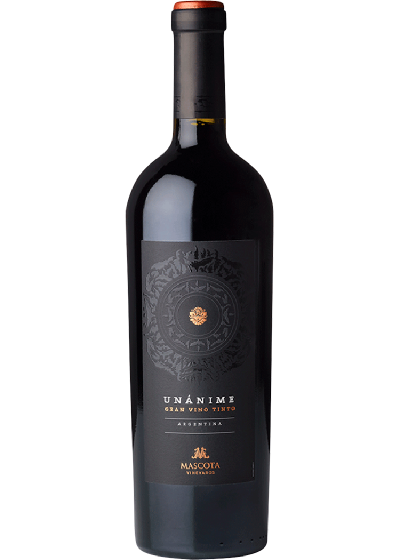
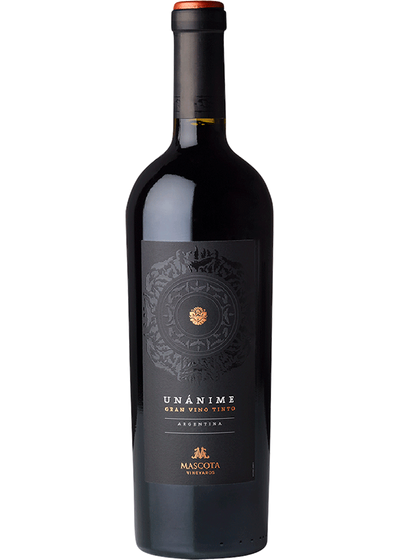
DIG-107347 Second version with height/width support

diff --git a/transform.go b/transform.go
@@ -357,6 +357,71 @@ func makeRectangle(m image.Image, sidePadding int) image.Image {
 	return transparentRectangle
 }
 
+// make image rectangular with 5:7 ratio with specific dimensions
+func makeRectangleWithDimensions(m image.Image, targetWidth, targetHeight int) image.Image {
+	// Calculate the 5:7 ratio canvas dimensions
+	var canvasWidth, canvasHeight int
+
+	if targetWidth > 0 && targetHeight > 0 {
+		// Both dimensions specified, use them directly but maintain 5:7 ratio
+		// Choose the dimension that results in a larger canvas to fit the image
+		canvasFromWidth := targetWidth
+		canvasHeightFromWidth := int(float64(targetWidth) * 7.0 / 5.0)
+
+		canvasFromHeight := targetHeight
+		canvasWidthFromHeight := int(float64(targetHeight) * 5.0 / 7.0)
+
+		if canvasFromWidth >= canvasWidthFromHeight && canvasHeightFromWidth >= targetHeight {
+			canvasWidth = canvasFromWidth
+			canvasHeight = canvasHeightFromWidth
+		} else {
+			canvasWidth = canvasWidthFromHeight
+			canvasHeight = canvasFromHeight
+		}
+	} else if targetWidth > 0 {
+		// Only width specified, calculate height for 5:7 ratio
+		canvasWidth = targetWidth
+		canvasHeight = int(float64(targetWidth) * 7.0 / 5.0)
+	} else if targetHeight > 0 {
+		// Only height specified, calculate width for 5:7 ratio
+		canvasHeight = targetHeight
+		canvasWidth = int(float64(targetHeight) * 5.0 / 7.0)
+	} else {
+		// No dimensions specified, fall back to original behavior
+		return makeRectangle(m, 0)
+	}
+
+	// Scale the image to fit within the canvas while maintaining aspect ratio
+	imgWidth := m.Bounds().Dx()
+	imgHeight := m.Bounds().Dy()
+
+	scaleX := float64(canvasWidth) / float64(imgWidth)
+	scaleY := float64(canvasHeight) / float64(imgHeight)
+
+	// Use the smaller scale to ensure the image fits within the canvas
+	scale := scaleX
+	if scaleY < scaleX {
+		scale = scaleY
+	}
+
+	// Allow scaling up to fill the target canvas size
+	newWidth := int(float64(imgWidth) * scale)
+	newHeight := int(float64(imgHeight) * scale)
+
+	// Resize the image if needed
+	if newWidth != imgWidth || newHeight != imgHeight {
+		m = imaging.Resize(m, newWidth, newHeight, resampleFilter)
+	}
+
+	// Create the 5:7 canvas and center the image
+	backGroundColor := image.Transparent
+	offset := image.Pt(canvasWidth/2-m.Bounds().Dx()/2, canvasHeight/2-m.Bounds().Dy()/2)
+	transparentRectangle := image.NewRGBA(image.Rect(0, 0, canvasWidth, canvasHeight))
+	draw.Draw(transparentRectangle, transparentRectangle.Bounds(), backGroundColor, image.ZP, draw.Src)
+	draw.Draw(transparentRectangle, transparentRectangle.Bounds().Add(offset), m, image.ZP, draw.Over)
+	return transparentRectangle
+}
+
 // read EXIF orientation tag from r and adjust opt to orient image correctly.
 func exifOrientation(r io.Reader) (opt Options) {
 	// Exif Orientation Tag values
@@ -472,7 +537,49 @@ func transformImage(m image.Image, opt Options) image.Image {
 	if !m.Bounds().Eq(rect) {
 		m = imaging.Crop(m, rect)
 	}
-	// resize if needed
+
+	// Special handling for Rectangle option with dimensions
+	if opt.Rectangle && (opt.Width > 0 || opt.Height > 0) {
+		// For rectangle mode, we want to create a 5:7 canvas with the specified dimensions
+		// and fit the image within it, rather than resize first and then add canvas
+
+		// Convert percentage width and height values to absolute values
+		imgW := m.Bounds().Dx()
+		imgH := m.Bounds().Dy()
+		targetW := evaluateFloat(opt.Width, imgW)
+		targetH := evaluateFloat(opt.Height, imgH)
+
+		// Apply rotations before rectangle transformation
+		rotate := float64(opt.Rotate) - math.Floor(float64(opt.Rotate)/360)*360
+		switch rotate {
+		case 90:
+			m = imaging.Rotate90(m)
+		case 180:
+			m = imaging.Rotate180(m)
+		case 270:
+			m = imaging.Rotate270(m)
+		}
+
+		// Apply flips before rectangle transformation
+		if opt.FlipVertical {
+			m = imaging.FlipV(m)
+		}
+		if opt.FlipHorizontal {
+			m = imaging.FlipH(m)
+		}
+
+		// Create rectangle with specified dimensions
+		m = makeRectangleWithDimensions(m, targetW, targetH)
+
+		// Apply size indicator if needed
+		if opt.IndicatorSize != "" {
+			m = addSizeIndicator(m, opt.IndicatorSize)
+		}
+
+		return m
+	}
+
+	// Standard resize logic for non-rectangle cases
 	if resize {
 		if opt.Fit {
 			m = imaging.Fit(m, w, h, resampleFilter)

diff --git a/rectangle_test.go b/rectangle_test.go
@@ -1,0 +1,80 @@
+package imageproxy
+
+import (
+	"testing"
+)
+
+// Test that demonstrates the fix for the rectangle canvas issue
+func TestRectangleCanvasWithSpecifiedWidth(t *testing.T) {
+	// Test case 1: Tall image (height > width) with specified width
+	tallImage := newImage(100, 200, red) // 100x200 image
+
+	// Transform with width=250 and Rectangle=true
+	result := transformImage(tallImage, Options{Width: 250, Rectangle: true})
+
+	// Should create a 250x350 canvas (5:7 ratio)
+	expectedWidth := 250
+	expectedHeight := 350 // 250 * 7/5 = 350
+
+	if result.Bounds().Dx() != expectedWidth {
+		t.Errorf("Tall image with width=250, rect: got width %d, want %d",
+			result.Bounds().Dx(), expectedWidth)
+	}
+	if result.Bounds().Dy() != expectedHeight {
+		t.Errorf("Tall image with width=250, rect: got height %d, want %d",
+			result.Bounds().Dy(), expectedHeight)
+	}
+
+	// Test case 2: Wide image (width > height) with specified width
+	wideImage := newImage(300, 100, blue) // 300x100 image
+
+	result2 := transformImage(wideImage, Options{Width: 250, Rectangle: true})
+
+	// Should still create a 250x350 canvas
+	if result2.Bounds().Dx() != expectedWidth {
+		t.Errorf("Wide image with width=250, rect: got width %d, want %d",
+			result2.Bounds().Dx(), expectedWidth)
+	}
+	if result2.Bounds().Dy() != expectedHeight {
+		t.Errorf("Wide image with width=250, rect: got height %d, want %d",
+			result2.Bounds().Dy(), expectedHeight)
+	}
+
+	// Test case 3: Test with height specified
+	tallImage2 := newImage(100, 300, green) // 100x300 image
+
+	result3 := transformImage(tallImage2, Options{Height: 350, Rectangle: true})
+
+	// Should create a 250x350 canvas (height=350, width=350*5/7=250)
+	if result3.Bounds().Dx() != 250 {
+		t.Errorf("Tall image with height=350, rect: got width %d, want %d",
+			result3.Bounds().Dx(), 250)
+	}
+	if result3.Bounds().Dy() != 350 {
+		t.Errorf("Tall image with height=350, rect: got height %d, want %d",
+			result3.Bounds().Dy(), 350)
+	}
+}
+
+// Test that rectangle without dimensions still works as before
+func TestRectangleWithoutDimensions(t *testing.T) {
+	// Test with an image and Rectangle=true but no width/height specified
+	testImage := newImage(100, 200, red) // 100x200 image
+
+	result := transformImage(testImage, Options{Rectangle: true})
+
+	// Should base the canvas on the image dimensions
+	// Image is taller than 5:7 ratio, so should base on height
+	// Canvas width should be 200 * 5/7 ≈ 142.86 ≈ 142
+	expectedWidth := int(float64(200) * 5.0 / 7.0) // ~142
+	expectedHeight := 200
+
+	if result.Bounds().Dx() != expectedWidth {
+		t.Errorf("Rectangle without dimensions: got width %d, want %d",
+			result.Bounds().Dx(), expectedWidth)
+	}
+	if result.Bounds().Dy() != expectedHeight {
+		t.Errorf("Rectangle without dimensions: got height %d, want %d",
+			result.Bounds().Dy(), expectedHeight)
+	}
+}

diff --git a/transform_test.go b/transform_test.go
@@ -387,6 +387,43 @@ func TestTransformImage(t *testing.T) {
 	}
 }
 
+// Test the specific case for rectangular canvas with width specified
+func TestTransformImage_RectangleWithWidth(t *testing.T) {
+	// Create a tall image (height > width) to test the specific case
+	tallImage := newImage(100, 200, red)
+
+	// Test with width=250, Rectangle=true
+	// Should create a 250x350 canvas (5:7 ratio) and fit the image within it
+	result := transformImage(tallImage, Options{Width: 250, Rectangle: true})
+
+	// Check that the result has the correct 5:7 ratio dimensions
+	expectedWidth := 250
+	expectedHeight := int(float64(250) * 7.0 / 5.0) // 350
+
+	if result.Bounds().Dx() != expectedWidth {
+		t.Errorf("Rectangle transformation with width=250: got width %d, want %d",
+			result.Bounds().Dx(), expectedWidth)
+	}
+	if result.Bounds().Dy() != expectedHeight {
+		t.Errorf("Rectangle transformation with width=250: got height %d, want %d",
+			result.Bounds().Dy(), expectedHeight)
+	}
+
+	// Test with a wide image (width > height)
+	wideImage := newImage(300, 100, blue)
+	result2 := transformImage(wideImage, Options{Width: 250, Rectangle: true})
+
+	// Should still create a 250x350 canvas
+	if result2.Bounds().Dx() != expectedWidth {
+		t.Errorf("Rectangle transformation with width=250 (wide image): got width %d, want %d",
+			result2.Bounds().Dx(), expectedWidth)
+	}
+	if result2.Bounds().Dy() != expectedHeight {
+		t.Errorf("Rectangle transformation with width=250 (wide image): got height %d, want %d",
+			result2.Bounds().Dy(), expectedHeight)
+	}
+}
+
 func TestTWMChanges(t *testing.T) {
 	src, err := getTwmTestImage("test-images/unanime.png")
 	if err != nil {
